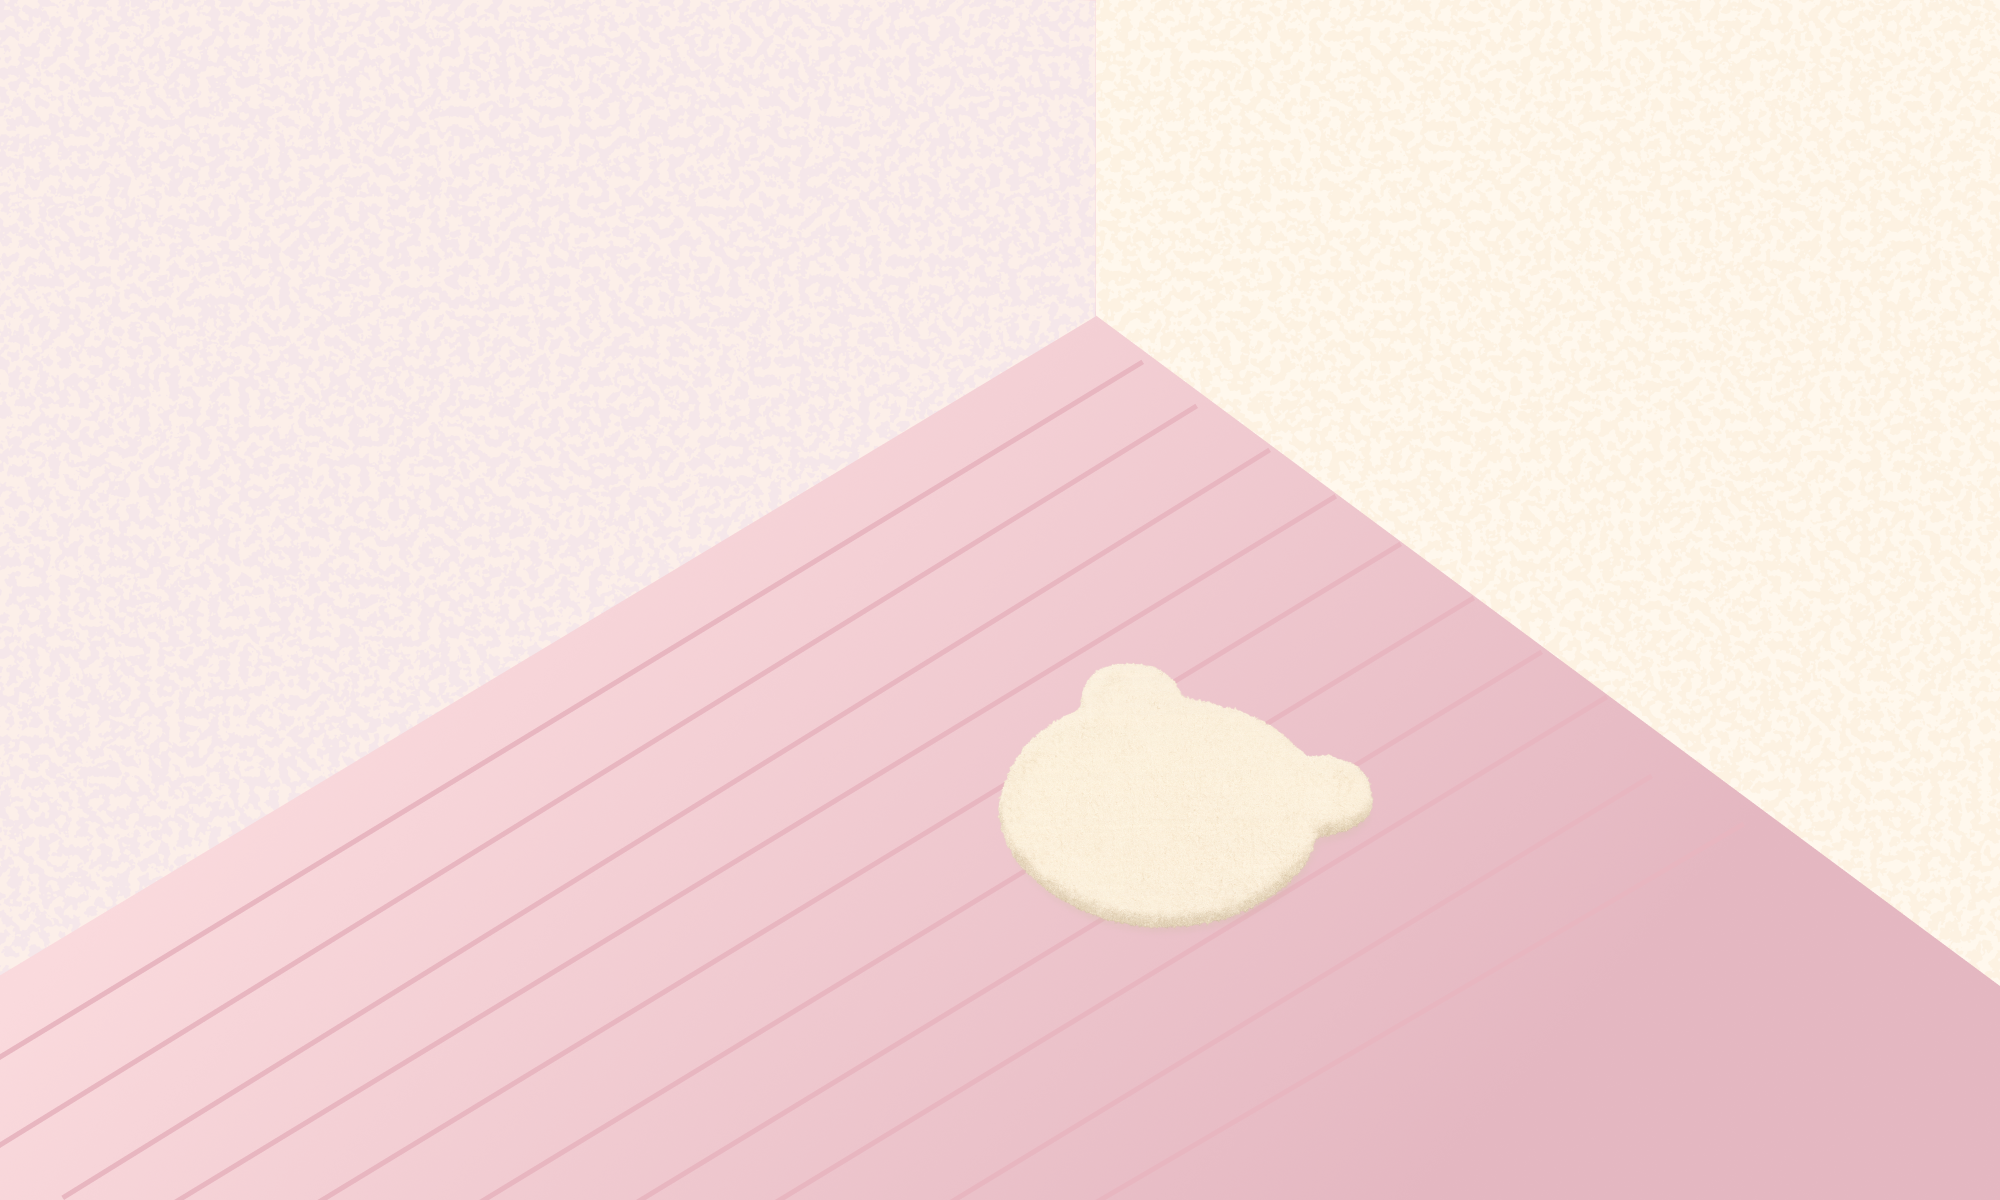
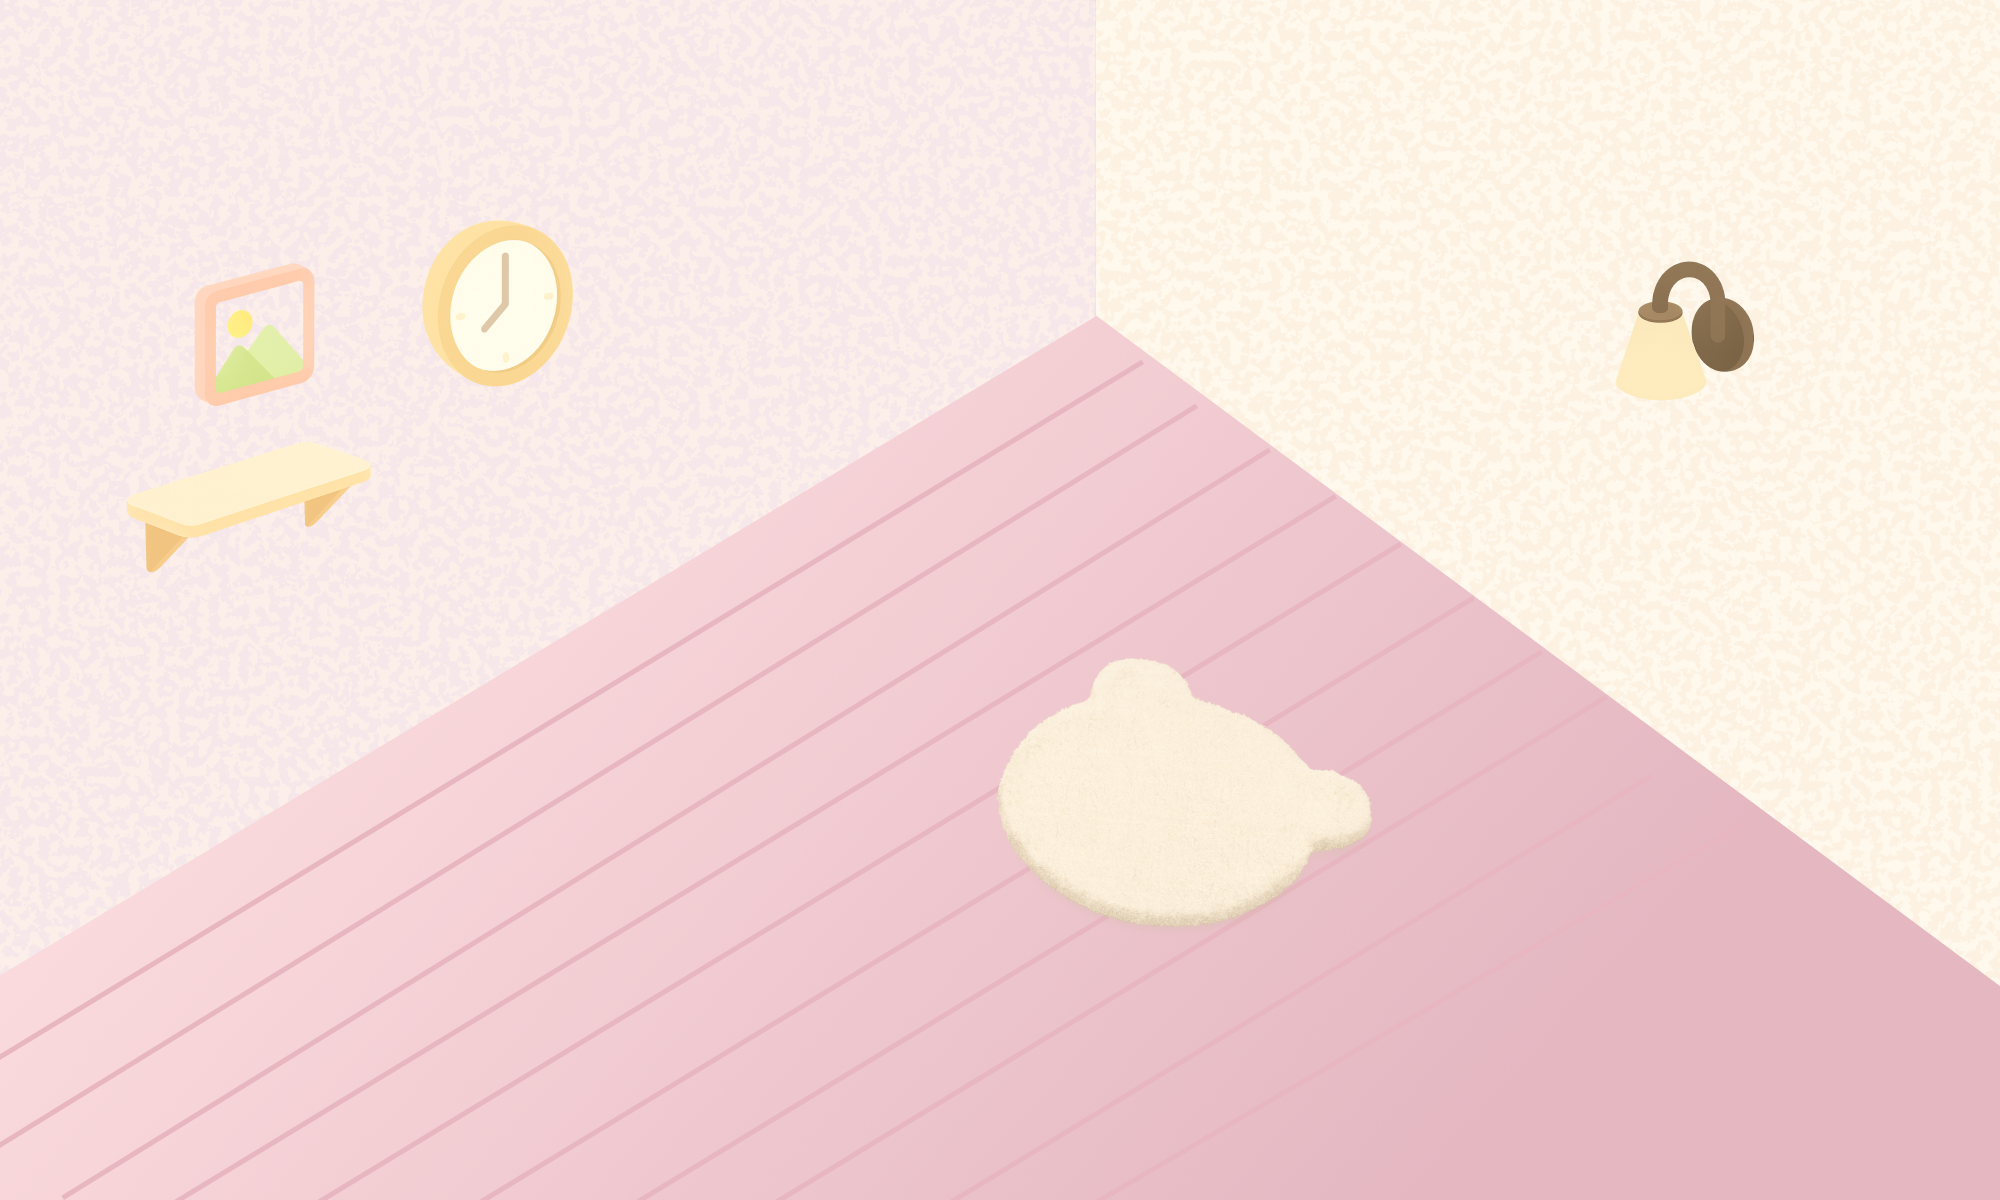
내 집 디자인 개선

diff --git a/src/pages/Collection.js b/src/pages/Collection.js
@@ -613,7 +613,7 @@ function Collection() {
               paddingBottom: '15px'
             }}>
               <h3 style={{ margin: 0, color: '#333', fontSize: '24px' }}>
-                {selectedFurniture.icon} {selectedFurniture.name}
+                {selectedFurniture.name}
               </h3>
               <button 
                 onClick={() => setSelectedFurniture(null)}
